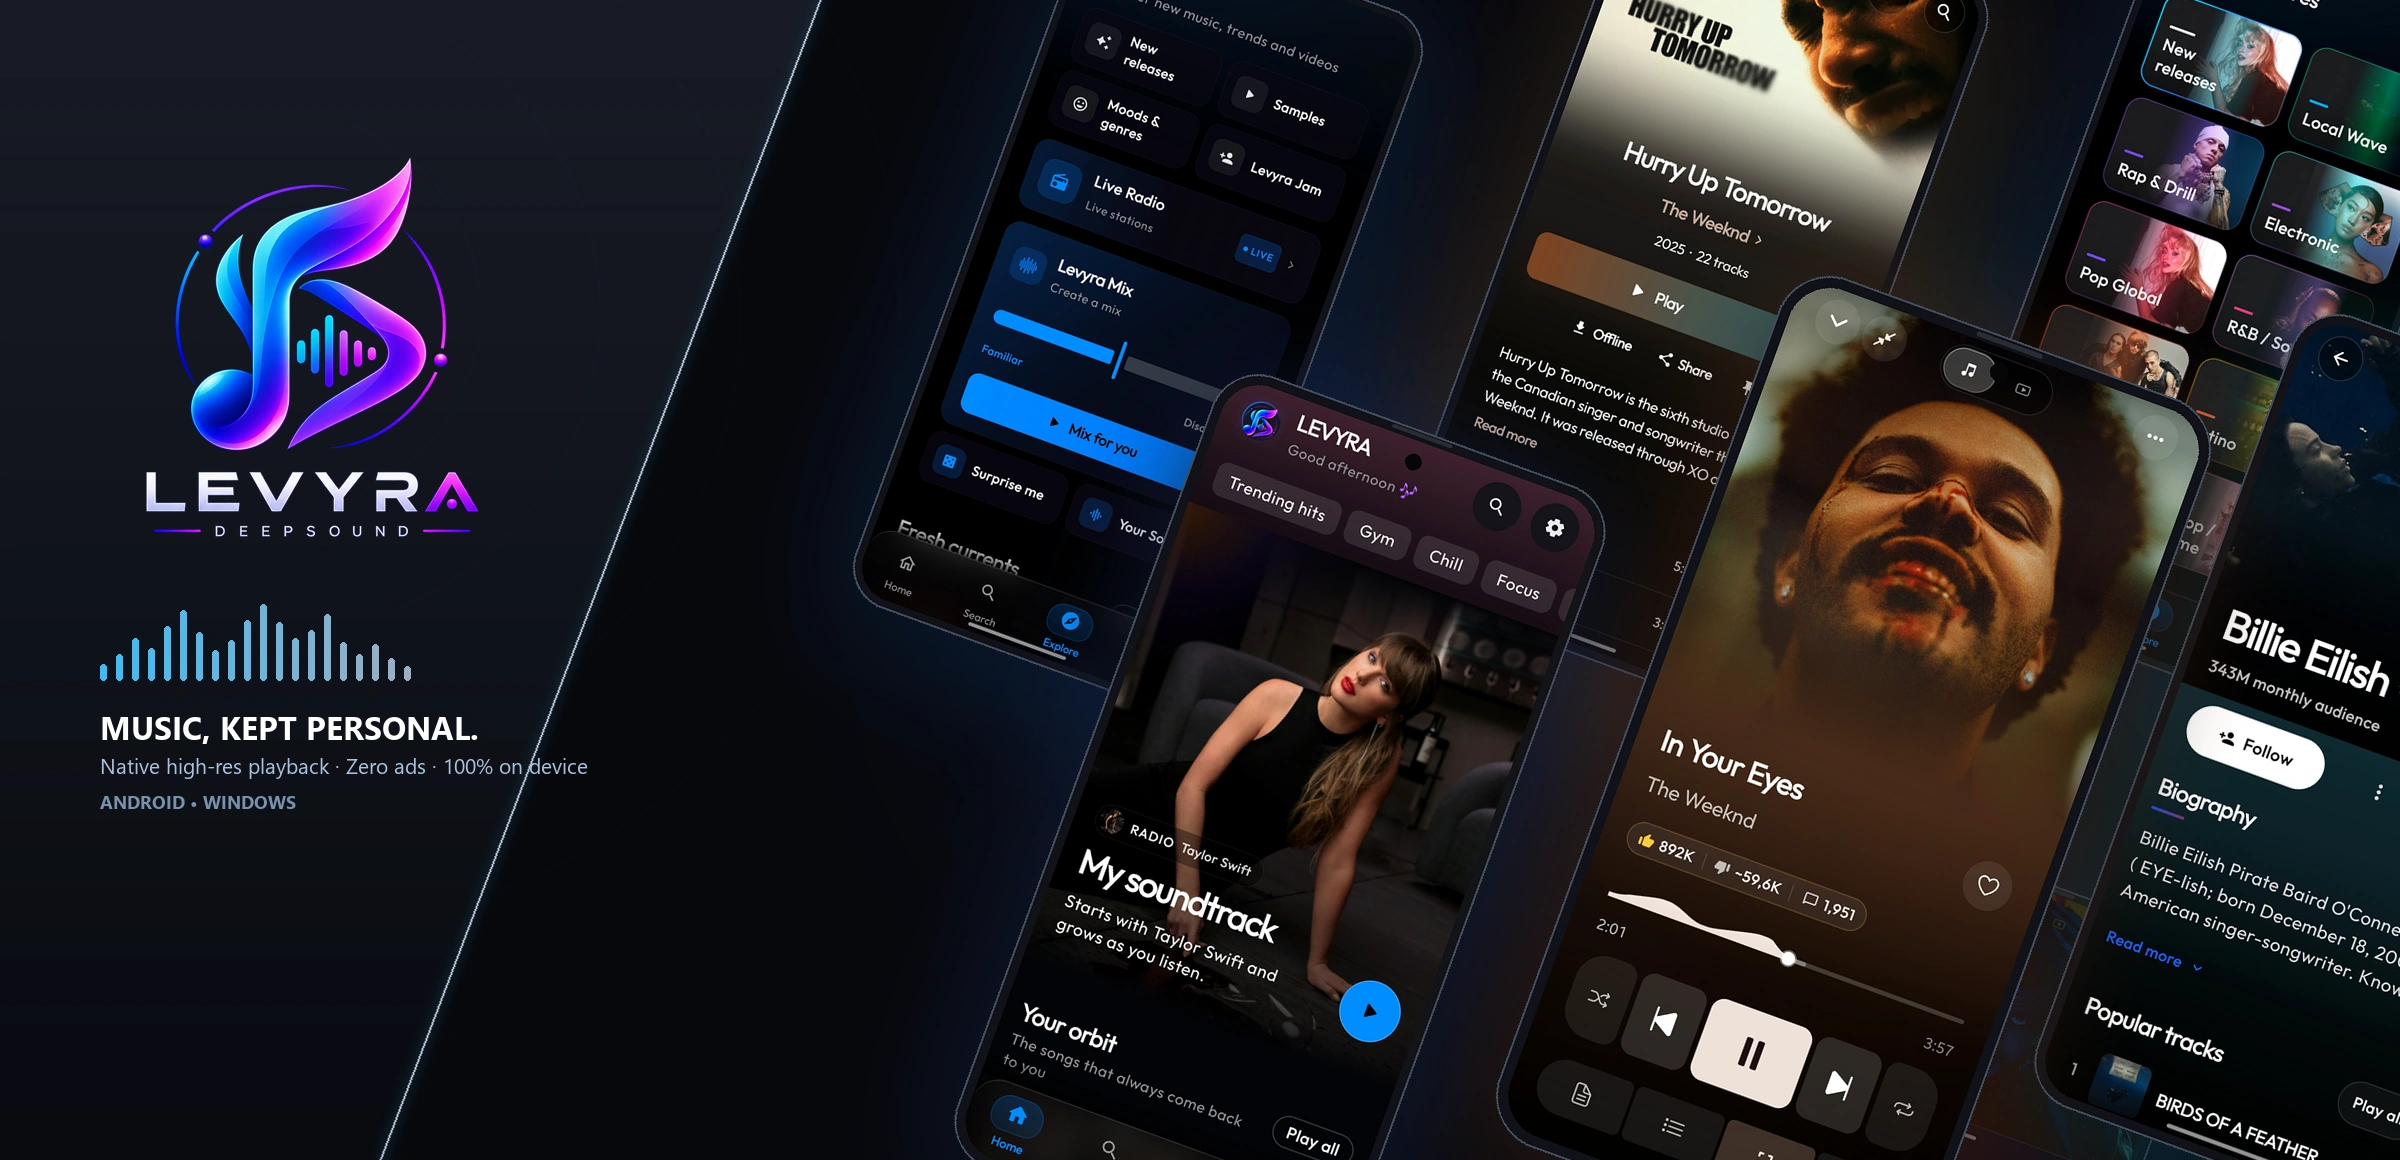
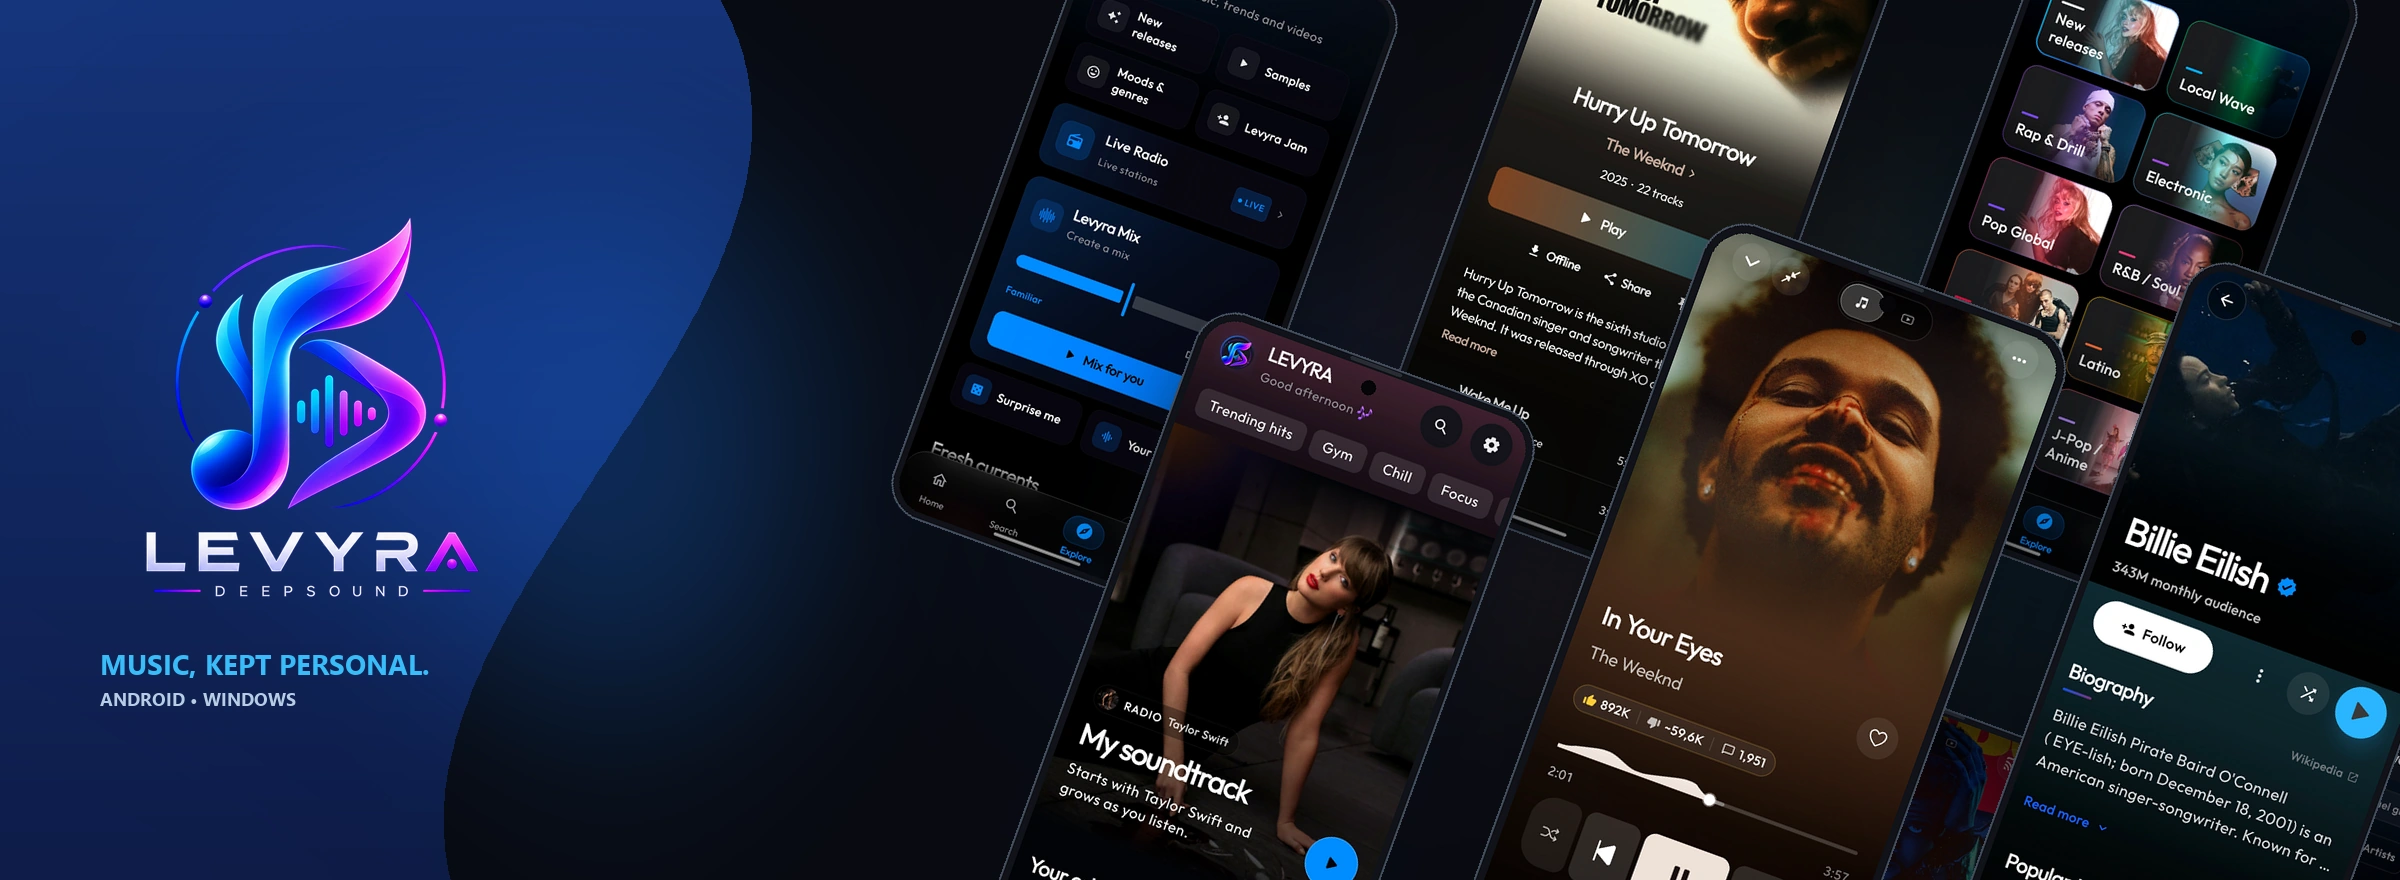
docs: restore Cosmic Sapphire Blue brand wave with 2400x880 dimensions matching main

diff --git a/scripts/generate_showcase_assets.py b/scripts/generate_showcase_assets.py
@@ -175,110 +175,95 @@ def create_delicate_bg(width, height, top_tint, accent_tone, glow_tone=None, y_s
 
 def generate_hero_panoramic_showcase():
     """
-    Generates 00_levyra_hero_wall_player.webp with majestic 2400x1160 proportions,
-    authentic Spotify-grade -20° cascading phone flight, deep carbon-graphite foundation
-    (Charcoal Carbon to Obsidian, ZERO green, ZERO purple behind logo), diagonal parallel
-    titanium hairline rim, acoustic sound pressure rings, dynamic audio spectrum visualizer,
-    and clean editorial typography (ZERO badges).
+    Generates 00_levyra_hero_wall_player.webp with compact cinematic proportions (2400x880) matching main,
+    a fluid organic brand wave in rich Cosmic Sapphire Blue (ZERO purple on left), prominent 3D Levyra DeepSound
+    logo, clean minimal typography (ZERO badges), and an authentic -20° cascading phone flight in Spotify style.
     """
-    canvas_w, canvas_h = 2400, 1160
-    canvas = Image.new("RGBA", (canvas_w, canvas_h), (7, 8, 13, 255))
+    canvas_w, canvas_h = 2400, 880
+    canvas = Image.new("RGBA", (canvas_w, canvas_h), (8, 10, 16, 255))
 
-    # 1. Subtle, high-end studio background bloom behind the phones (Warm Amber, Deep Sapphire, Ice Cyan - ZERO green!)
-    amb = Image.new("RGBA", (canvas_w, canvas_h), (0, 0, 0, 0))
-    adraw = ImageDraw.Draw(amb)
-    adraw.ellipse((1400, 150, 2150, 950), fill=(225, 110, 20, 52))
-    adraw.ellipse((950, 200, 1600, 980), fill=(35, 90, 210, 48))
-    adraw.ellipse((1800, 150, 2400, 900), fill=(0, 180, 220, 42))
-    amb = amb.filter(ImageFilter.GaussianBlur(180))
-    canvas = Image.alpha_composite(canvas, amb)
+    # Fluid organic wave on the left (Levyra Cosmic Sapphire brand wave in pure rich blue)
+    w_canvas = Image.new("RGBA", (canvas_w, canvas_h), (0, 0, 0, 0))
+    steps = 140
+    t = np.linspace(0, 1, steps)
+    x_start = 720
+    x_end = 450
+    c1_x = 880
+    c2_x = 380
+    xs = (1 - t)**3 * x_start + 3 * (1 - t)**2 * t * c1_x + 3 * (1 - t) * t**2 * c2_x + t**3 * x_end
+    ys = np.linspace(0, canvas_h, steps)
 
-    # 2. Sleek Diagonal Carbon Stage Transition on Left (Parallel to -20° Phone Flight)
-    poly_carbon = [(0, 0), (820, 0), (380, canvas_h), (0, canvas_h)]
-    carbon_mask = Image.new("L", (canvas_w, canvas_h), 0)
-    cm_draw = ImageDraw.Draw(carbon_mask)
-    cm_draw.polygon(poly_carbon, fill=255)
+    poly = [(0, 0)]
+    for x, y in zip(xs, ys):
+        poly.append((int(x), int(y)))
+    poly.extend([(0, canvas_h)])
 
-    # Brushed Carbon-Graphite Gradient on Left: Charcoal Carbon (24, 28, 38) to Deep Obsidian (9, 11, 15)
-    cg_arr = np.zeros((canvas_h, canvas_w, 4), dtype=np.uint8)
+    wave_mask = Image.new("L", (canvas_w, canvas_h), 0)
+    wmdraw = ImageDraw.Draw(wave_mask)
+    wmdraw.polygon(poly, fill=255)
+
+    # Rich Sapphire Blue Gradient (Top: 22, 54, 126 -> Bottom: 14, 28, 72 - ZERO purple!)
+    wg_arr = np.zeros((canvas_h, canvas_w, 4), dtype=np.uint8)
     for row in range(canvas_h):
         ratio = row / float(canvas_h)
-        cg_arr[row, :, 0] = int(24 * (1 - ratio) + 9 * ratio)
-        cg_arr[row, :, 1] = int(28 * (1 - ratio) + 11 * ratio)
-        cg_arr[row, :, 2] = int(38 * (1 - ratio) + 16 * ratio)
-        cg_arr[row, :, 3] = 252
-    carbon_layer = Image.fromarray(cg_arr, mode="RGBA")
-    carbon_canvas = Image.new("RGBA", (canvas_w, canvas_h), (0, 0, 0, 0))
-    carbon_canvas.paste(carbon_layer, (0, 0), carbon_mask)
+        wg_arr[row, :, 0] = int(22 * (1 - ratio) + 14 * ratio)
+        wg_arr[row, :, 1] = int(54 * (1 - ratio) + 28 * ratio)
+        wg_arr[row, :, 2] = int(126 * (1 - ratio) + 72 * ratio)
+        wg_arr[row, :, 3] = 255
+    wave_grad = Image.fromarray(wg_arr, mode="RGBA")
+    w_canvas.paste(wave_grad, (0, 0), wave_mask)
 
-    # Diagonal Illuminated Hairline Rim (Electric Cyan -> Cool Titanium Silver)
-    rim_layer = Image.new("RGBA", (canvas_w, canvas_h), (0, 0, 0, 0))
-    rdraw = ImageDraw.Draw(rim_layer)
-    p_top = (820, 0)
-    p_bot = (380, canvas_h)
-    rdraw.line([p_top, p_bot], fill=(56, 189, 248, 85), width=10)
-    rim_layer = rim_layer.filter(ImageFilter.GaussianBlur(8))
-    rdraw2 = ImageDraw.Draw(rim_layer)
-    rdraw2.line([p_top, p_bot], fill=(148, 163, 184, 160), width=3)
-    rdraw2.line([p_top, p_bot], fill=(225, 235, 250, 220), width=1)
-    carbon_canvas = Image.alpha_composite(carbon_canvas, rim_layer)
+    # Ambient glows behind wave: Electric Cyan + Deep Sapphire (ZERO purple!)
+    w_glow = Image.new("RGBA", (canvas_w, canvas_h), (0, 0, 0, 0))
+    gdraw = ImageDraw.Draw(w_glow)
+    gdraw.ellipse((350, 80, 880, 800), fill=(26, 115, 235, 90))
+    gdraw.ellipse((80, 120, 560, 600), fill=(20, 85, 215, 80))
+    w_glow = w_glow.filter(ImageFilter.GaussianBlur(130))
 
-    # Acoustic Resonance Circles radiating from the 3D logo into the stage
-    ring_center = (280, 310)
-    ring_layer = Image.new("RGBA", (canvas_w, canvas_h), (0, 0, 0, 0))
-    rndraw = ImageDraw.Draw(ring_layer)
-    for radius, alpha in [(200, 24), (320, 18), (460, 14), (620, 9), (800, 6)]:
-        rndraw.arc(
-            (ring_center[0] - radius, ring_center[1] - radius, ring_center[0] + radius, ring_center[1] + radius),
-            start=290, end=430,
-            fill=(56, 189, 248, alpha),
-            width=2
-        )
-    ring_layer = ring_layer.filter(ImageFilter.GaussianBlur(2))
-    carbon_canvas = Image.alpha_composite(carbon_canvas, ring_layer)
+    # Ambient stage bloom behind phones (Warm Amber for The Weeknd, Deep Blue, Cyan)
+    r_glow = Image.new("RGBA", (canvas_w, canvas_h), (0, 0, 0, 0))
+    rgdraw = ImageDraw.Draw(r_glow)
+    rgdraw.ellipse((1350, 100, 2050, 720), fill=(225, 110, 20, 52))
+    rgdraw.ellipse((950, 160, 1500, 780), fill=(25, 75, 185, 45))
+    rgdraw.ellipse((1800, 120, 2380, 720), fill=(0, 180, 220, 42))
+    r_glow = r_glow.filter(ImageFilter.GaussianBlur(150))
 
-    canvas = Image.alpha_composite(canvas, carbon_canvas)
+    canvas = Image.alpha_composite(canvas, w_canvas)
+    canvas = Image.alpha_composite(canvas, w_glow)
+    canvas = Image.alpha_composite(canvas, r_glow)
 
-    # 3. Dynamic -20° Cascading Phone Flight (AUTHENTIC SPOTIFY STYLE)
+    # Cascading Phone Flight (-20° tilt - exactly as on main!)
     rot_angle = -20
 
     phones_spec = [
-        # --- UPPER / BACKGROUND ROW ---
-        ("Screenshot_20260927_140841_LEVYRA.jpg", 720, 840, -100, 1, (20, 110, 220)),
-        ("Screenshot_20260926_194706_LEVYRA.jpg", 750, 1380, -140, 2, (210, 135, 35)),
-        ("Screenshot_20260929_194827_LEVYRA.jpg", 720, 1920, -110, 1, (40, 80, 180)),
+        # Back / Upper Row
+        ("Screenshot_20260927_140841_LEVYRA.jpg", 640, 880, -110, 1),
+        ("Screenshot_20260926_194706_LEVYRA.jpg", 660, 1360, -160, 2),
+        ("Screenshot_20260929_194827_LEVYRA.jpg", 640, 1840, -120, 1),
 
-        # --- CENTER HERO ROW (In Front, Full Scale!) ---
-        ("Screenshot_20260926_171253_LEVYRA.jpg", 820, 940, 360, 4, (50, 90, 200)),
-        ("Screenshot_20260926_193948_LEVYRA.jpg", 900, 1480, 260, 5, (235, 105, 20)),
-        ("Screenshot_20260926_194603_LEVYRA.jpg", 820, 2020, 300, 4, (0, 185, 215)),
+        # Middle / Center Row
+        ("Screenshot_20260926_171253_LEVYRA.jpg", 710, 960, 300, 4),
+        ("Screenshot_20260926_193948_LEVYRA.jpg", 760, 1450, 210, 5),
+        ("Screenshot_20260926_194603_LEVYRA.jpg", 710, 1950, 250, 4),
 
-        # --- LOWER ACCENTS ---
-        ("Screenshot_20260929_195520_LEVYRA.jpg", 730, 1620, 820, 3, (80, 100, 180)),
+        # Bottom / Accents
+        ("Screenshot_20260929_195520_LEVYRA.jpg", 650, 1560, 650, 3),
+        ("Screenshot_20260929_201454_LEVYRA.jpg", 650, 2060, 680, 3),
     ]
-
     phones_spec.sort(key=lambda s: s[4])
 
-    for filename, height, px, py, z, amb_col in phones_spec:
+    for filename, height, px, py, z in phones_spec:
         s_path = resolve_screenshot_path(filename)
         if not s_path:
             continue
         with Image.open(s_path) as src:
             phone = create_clean_phone(src, target_height=height)
         rotated = phone.rotate(rot_angle, resample=Image.Resampling.BICUBIC, expand=True)
-
-        glow, gpad = create_colored_glow(rotated, amb_col, blur=56, opacity=65, offset_y=18)
-        canvas.paste(glow, (px - gpad, py - gpad), glow)
-
-        shadow, pad = create_studio_shadow(rotated, blur=48, opacity=160, offset_y=28)
+        shadow, pad = create_studio_shadow(rotated, blur=40, opacity=145, offset_y=24)
         canvas.paste(shadow, (px - pad, py - pad), shadow)
-
         canvas.paste(rotated, (px, py), rotated)
 
-    # 4. Creative Minimal Left Branding (Pure Carbon & Titanium - ZERO BADGES, ZERO PURPLE!)
-    draw = ImageDraw.Draw(canvas)
-
-    # 3D Logo Lockup
+    # Left branding: Large 3D Logo + concise punchy title (NO long descriptions, NO badges)
     logo_file = LOGO_PATH if os.path.exists(LOGO_PATH) else r"app\src\main\res\drawable\levyra_logo.png"
     with Image.open(logo_file) as l_src:
         logo = l_src.convert("RGBA")
@@ -290,29 +275,14 @@ def generate_hero_panoramic_showcase():
         logo_res = logo_crop.resize((target_logo_w, target_logo_h), Image.Resampling.LANCZOS)
 
     logo_x = 90
-    logo_y = 130
+    logo_y = (canvas_h - target_logo_h - 70) // 2
     canvas.paste(logo_res, (logo_x, logo_y), logo_res)
 
-    # Dynamic Audio Spectrum Visualizer (Acoustic equalizer accent!)
-    spec_x = logo_x + 10
-    spec_y = logo_y + target_logo_h + 40
-    bars_data = [16, 26, 42, 32, 54, 70, 48, 30, 40, 60, 76, 58, 42, 50, 66, 38, 26, 36, 22, 14]
-    for i, bh in enumerate(bars_data):
-        bx = spec_x + i * 16
-        by = spec_y + (80 - bh)
-        b_ratio = i / float(len(bars_data))
-        cr = int(56 * (1 - b_ratio) + 160 * b_ratio)
-        cg = int(189 * (1 - b_ratio) + 175 * b_ratio)
-        cb = int(248 * (1 - b_ratio) + 195 * b_ratio)
-        draw.rounded_rectangle((bx, by, bx + 6, spec_y + 80), radius=3, fill=(cr, cg, cb, 235))
-
-    # Bold Editorial Headline & Micro-signature
-    text_y = spec_y + 105
-    draw.text((logo_x + 10, text_y), "MUSIC, KEPT PERSONAL.", font=get_font(32, bold=True), fill=(255, 255, 255, 255))
-    text_y += 46
-    draw.text((logo_x + 10, text_y), "Native high-res playback · Zero ads · 100% on device", font=get_font(21, bold=False), fill=(170, 195, 225, 235))
-    text_y += 38
-    draw.text((logo_x + 10, text_y), "ANDROID • WINDOWS", font=get_font(18, bold=True), fill=(120, 145, 175, 200))
+    draw = ImageDraw.Draw(canvas)
+    text_y = logo_y + target_logo_h + 24
+    draw.text((logo_x + 10, text_y), "MUSIC, KEPT PERSONAL.", font=get_font(28, bold=True), fill=(56, 189, 248, 255))
+    text_y += 42
+    draw.text((logo_x + 10, text_y), "ANDROID • WINDOWS", font=get_font(18, bold=True), fill=(185, 205, 230, 200))
 
     out_path = os.path.join(OUT_SHOWCASE_DIR, "00_levyra_hero_wall_player.webp")
     canvas.convert("RGB").save(out_path, "WEBP", quality=95, method=6)
